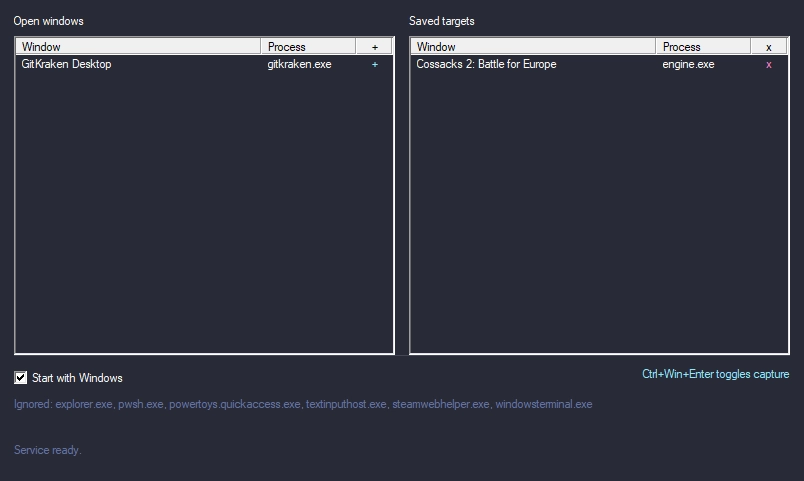
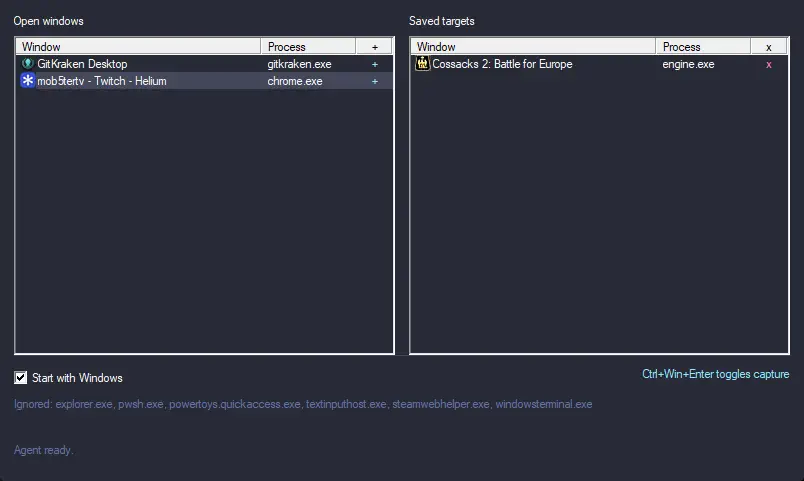
fix(capture): allow moving targeted windows

Changed region(s): [[0.0, 0.0936, 0.7152, 0.1871], [0.0311, 0.9044, 0.0933, 0.9667], [0.995, 0.9979, 1.0, 1.0]]

diff --git a/src/capture_agent_capture.cpp b/src/capture_agent_capture.cpp
@@ -6,6 +6,7 @@ namespace clipper
 {
 void CaptureAgent::UpdateForegroundTarget()
 {
+    moving_active_window_ = false;
     active_window_ = nullptr;
     if (!capture_enabled_)
     {
@@ -37,26 +38,19 @@ void CaptureAgent::UpdateClipRect()
         return;
     }
 
-    RECT client{};
-    if (!GetClientRect(active_window_, &client))
+    RECT window_rect{};
+    if (!GetWindowRect(active_window_, &window_rect))
     {
         return;
     }
 
-    POINT top_left{client.left, client.top};
-    POINT bottom_right{client.right, client.bottom};
-    if (!ClientToScreen(active_window_, &top_left) ||
-        !ClientToScreen(active_window_, &bottom_right))
-    {
-        return;
-    }
-
-    clip_rect_ = {top_left.x, top_left.y, bottom_right.x, bottom_right.y};
+    clip_rect_ = window_rect;
 }
 
 void CaptureAgent::ApplyClip()
 {
     const bool can_clip = capture_enabled_ && active_window_ != nullptr &&
+                          !moving_active_window_ &&
                           IsWindow(active_window_) && !IsIconic(active_window_) &&
                           GetForegroundWindow() == active_window_ &&
                           clip_rect_.right > clip_rect_.left && clip_rect_.bottom > clip_rect_.top;
@@ -83,17 +77,43 @@ LRESULT CALLBACK CaptureAgent::MouseHookProc(int code, WPARAM w_param, LPARAM l_
 void CALLBACK CaptureAgent::WinEventProc(HWINEVENTHOOK, DWORD event, HWND window, LONG object_id,
                                          LONG child_id, DWORD, DWORD)
 {
-    if (current_ == nullptr ||
-        (event != EVENT_SYSTEM_FOREGROUND && event != EVENT_OBJECT_LOCATIONCHANGE) ||
-        object_id != OBJID_WINDOW || child_id != CHILDID_SELF)
+    if (current_ == nullptr)
     {
         return;
     }
 
-    if (event == EVENT_OBJECT_LOCATIONCHANGE && window != current_->active_window_)
+    if (event == EVENT_SYSTEM_MOVESIZESTART || event == EVENT_SYSTEM_MOVESIZEEND)
+    {
+        if (window != current_->active_window_)
+        {
+            return;
+        }
+
+        if (event == EVENT_SYSTEM_MOVESIZESTART)
+        {
+            current_->moving_active_window_ = true;
+            current_->ReleaseClip();
+        }
+        else
+        {
+            current_->moving_active_window_ = false;
+            current_->UpdateForegroundTarget();
+        }
+        return;
+    }
+
+    if (event == EVENT_OBJECT_LOCATIONCHANGE &&
+        (object_id != OBJID_WINDOW || child_id != CHILDID_SELF ||
+         window != current_->active_window_ || current_->moving_active_window_))
     {
         return;
     }
+
+    if (event != EVENT_SYSTEM_FOREGROUND && event != EVENT_OBJECT_LOCATIONCHANGE)
+    {
+        return;
+    }
+
     current_->UpdateForegroundTarget();
 }
 

diff --git a/src/capture_agent.h b/src/capture_agent.h
@@ -67,6 +67,7 @@ class CaptureAgent
     HWND active_window_ = nullptr;
     RECT clip_rect_{};
     bool capture_enabled_ = true;
+    bool moving_active_window_ = false;
     bool stopping_ = false;
     Config config_;
     std::wstring config_path_;

diff --git a/AGENTS.md b/AGENTS.md
@@ -1,0 +1,5 @@
+# Project Rules
+
+- Do not add, restore, or run tests.
+- Do not add test files, CTest targets, or test-only dependencies.
+- Build application only.
